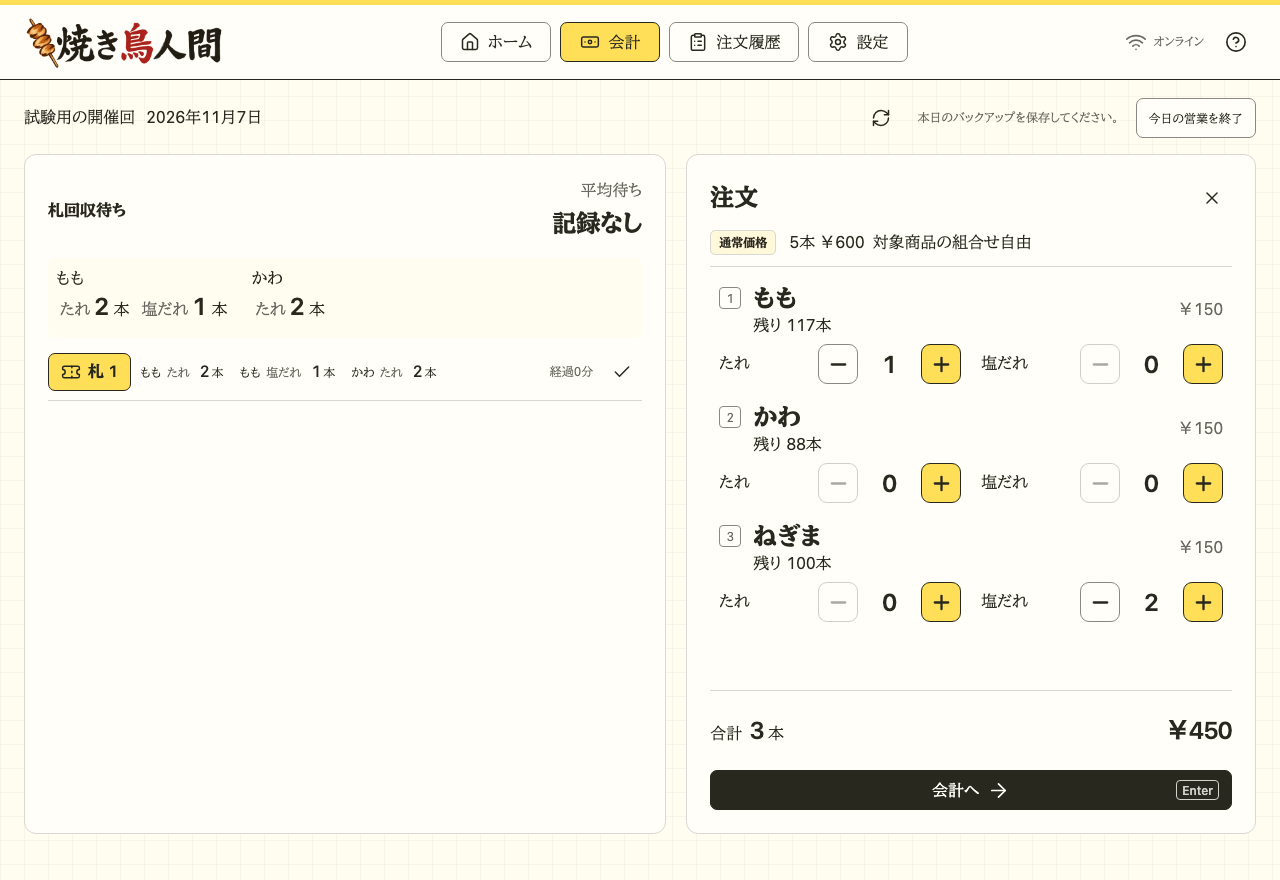
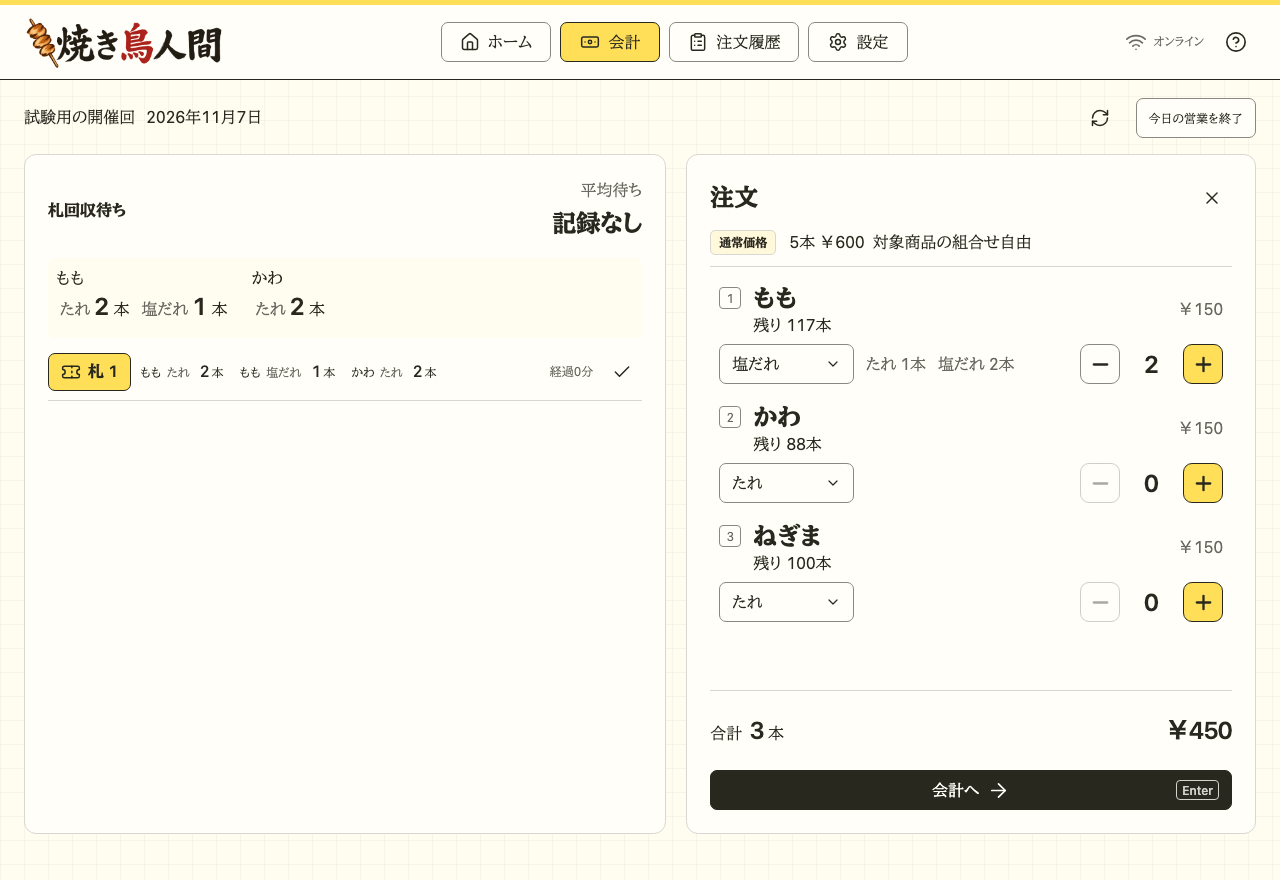
docs: update compact flavor input guide

diff --git a/docs/frontend.md b/docs/frontend.md
@@ -1,7 +1,7 @@
 ---
 title: "フロントエンド"
 status: current
-updated: "2026-11-07"
+updated: "2026-11-08"
 ---
 
 # フロントエンド
@@ -45,19 +45,21 @@ updated: "2026-11-07"
 
 PCでは左に札回収待ち、右に本数入力・会計を表示します。狭い画面では会計を上、札回収待ちを下に並べます。
 
-商品ごとに味別の本数を並べ、全ての味を切り替えずに確認・入力できます。1〜9キーは各商品の先頭の味へ追加します。味の追加・改名・削除は、初回準備・別日の準備・設定で共通の`FlavorFields`を使います。
+商品ごとに味の選択欄と、本数の＋／−を1組ずつ表示します。選んだ味の本数を編集し、入力済みの味別本数も、同じ商品欄にまとめて表示します。味を切り替えても他の味の本数やボタン位置を変えません。1〜9キーは各商品で選択中の味へ追加します。味の追加・改名・削除は、初回準備・別日の準備・設定で共通の`FlavorFields`を使います。
 
 最初の本数入力で価格版を固定します。味名もこの版を使い、設定変更で入力中や過去の注文を変えません。通常価格・値下げ価格の切り替えや商品削除で、入力中・過去の注文を再計算しません。未入金の会計で「戻る」を押すと、取消履歴を残して当時の数量・味・価格を下書きへ戻します。味の記録がない旧注文を修正する場合、元の本数は「味指定なし」に残します。
 
 お預かり金額には、ボタンで＋100・＋500・＋1,000・＋5,000・＋10,000を加算できます。空欄を0として扱い、「ちょうど」と手入力も使えます。上限超過や不正な手入力を加算で上書きしません。不足金額の表示が変わっても、ボタン位置は変えません。
 
-主操作は「会計へ」→「お釣りを確認」→「会計を確定」→札ダイアログの「この札で確定」です。Enterも各段階で一度ずつ処理し、長押し・連打・保存中の二重実行を防ぎます。`useCheckoutKeys`は1〜9キーで商品を増やし、入力欄・ダイアログ・別画面では無効にします。
+主操作は「会計へ」→「お釣りを確認」→「会計を確定」→札ダイアログの「この札で確定」です。Enterも各段階で一度ずつ処理し、長押し・連打・保存中の二重実行を防ぎます。`useCheckoutKeys`は1〜9キーで商品を増やし、入力欄・味の選択中・ダイアログ・別画面では無効にします。
 
 札は空いている最小番号を仮確保し、確定ボタンで開くダイアログから変更できます。ダイアログを閉じるかEscapeを押すと、未確定のまま戻ります。保存失敗でも選んだ札・金額・再試行の操作IDを保持します。札表示は`Ticket.tsx`を会計・待ち一覧・詳細で共用します。
 
 待ち一覧には未回収の通常注文を表示し、上部に商品・味別の未受け渡し本数をまとめます。チェックで受け渡しと実物札の回収を一括保存し、成功後に行を外します。二度押しで次の札を回収しないよう、直後の連続操作を抑止し、次の操作位置も保護します。回収取消は下部の固定枠へ置き、平均待ちの位置を動かしません。札再利用後の取消は理由を表示して拒否します。
 
 平均待ちは`domain/wait-time.ts`から当日直近10件の実績を取得します。札ごとの経過時間は会計確定から数え、30秒ごとに更新します。予測待ち時間としては扱いません。返金済みで未回収の札は別の札アイコンから回収を記録します。
+
+商品欄の味選択には共通の`Select`を使います。スクロール領域に隠れないよう、候補を`floating`で画面上に重ね、上下の空きに合わせて配置します。選択欄は標準40pxの高さを保ちます。
 
 味別の表示は`orderLines`、待ち一覧の集計は`orderLineTotals`で共通化します。`orderItems`は商品別合計のまま保ち、価格・在庫・売上グラフの集計と分けます。下書きの一時保存も味別本数を保持し、読込時に商品合計・味IDとの整合性を検証します。
 
